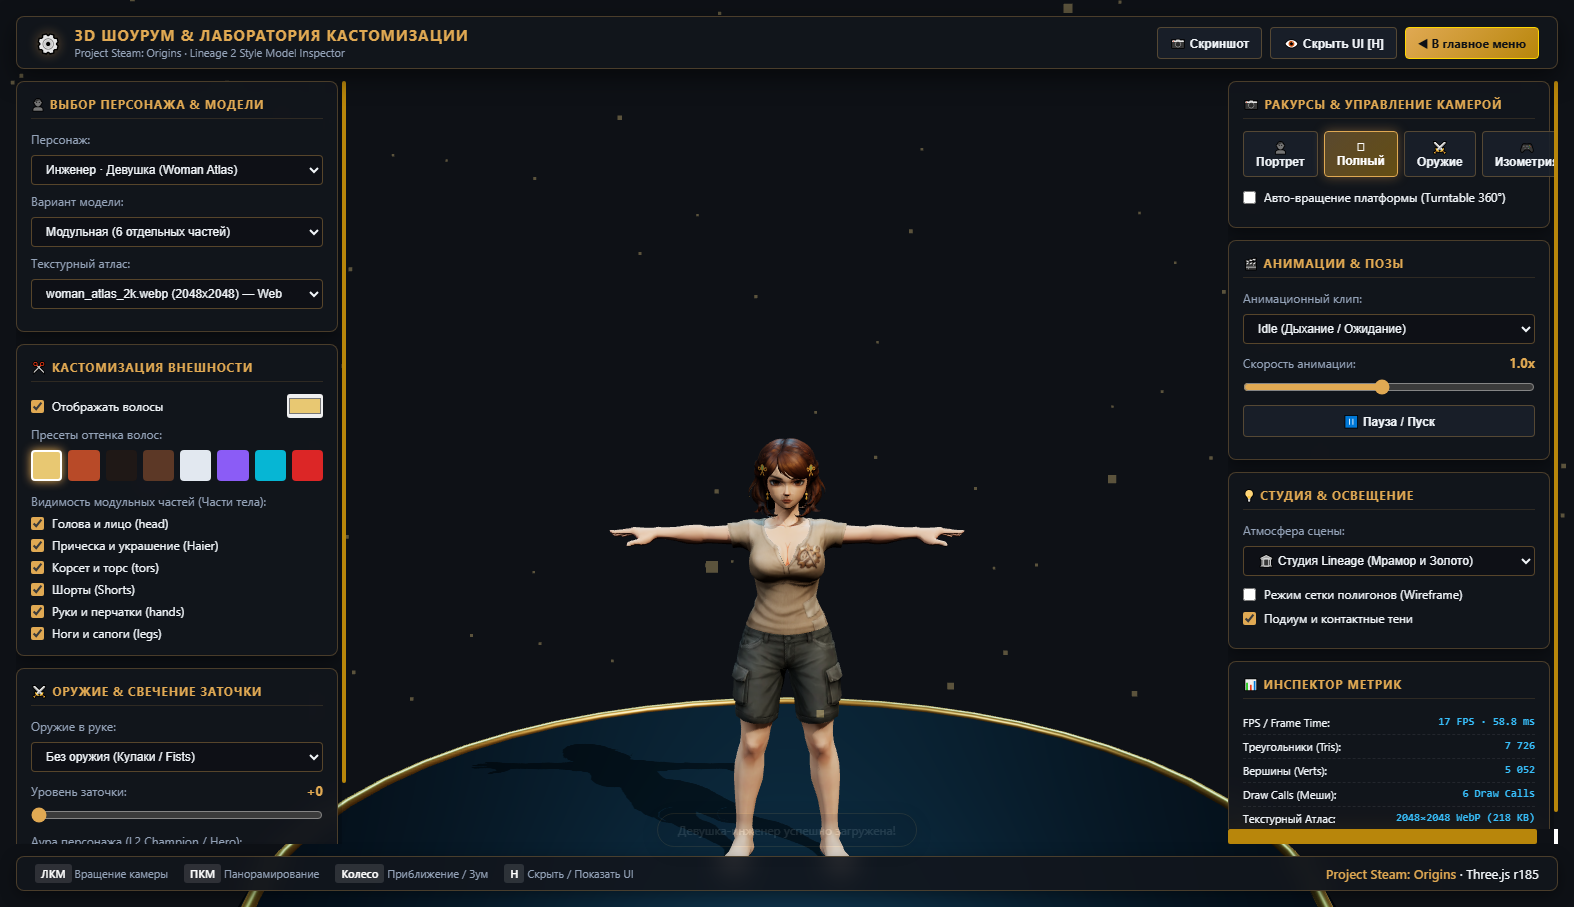
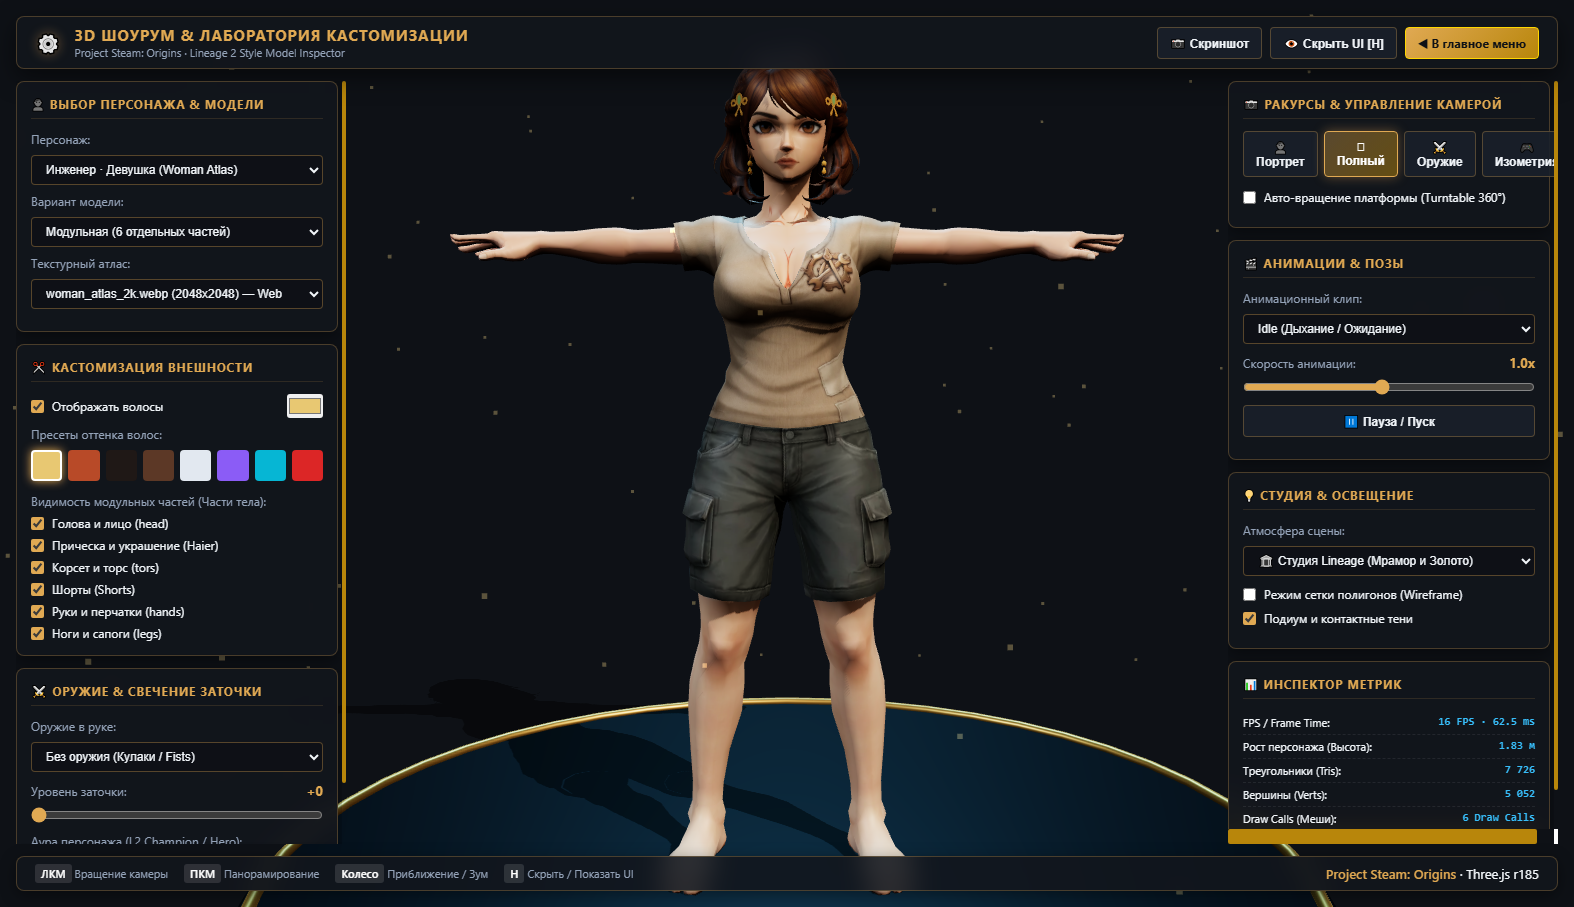
fix: rebuild woman model with atlas materials and scale > man

Changed region(s): [[0.2802, 0.0617, 0.716, 0.9879], [0.7783, 0.8026, 0.8717, 0.9261], [0.9028, 0.8644, 0.9962, 0.9261]]

diff --git a/client/js/showroom.js b/client/js/showroom.js
@@ -326,7 +326,7 @@ async function loadCharacter() {
           const hairMesh = hairGltf.scene;
           hairMesh.name = 'man_hair';
           activeCharacterModel.add(hairMesh);
-        } catch (_) {}
+        } catch (_) { }
       }
 
       charRoot.add(activeCharacterModel);
@@ -404,7 +404,7 @@ async function loadWeapon() {
           });
         }
       });
-    } catch (_) {}
+    } catch (_) { }
 
     // Position weapon in right hand socket
     // Position roughly at hand height (y ≈ 0.95, x ≈ 0.35, z ≈ 0.1)
@@ -552,16 +552,16 @@ function frameCamera(preset) {
   document.querySelectorAll('.preset-grid .btn').forEach(b => b.classList.remove('active'));
 
   if (preset === 'portrait') {
-    controls.setCameraTarget(new THREE.Vector3(0, 1.45, 0), 1.1, Math.PI / 2.05, 0);
+    controls.setCameraTarget(new THREE.Vector3(0, 1.55, 0), 1.15, Math.PI / 2.05, 0);
     document.getElementById('cam-portrait').classList.add('active');
   } else if (preset === 'full') {
-    controls.setCameraTarget(new THREE.Vector3(0, 0.95, 0), 2.8, Math.PI / 2.15, 0);
+    controls.setCameraTarget(new THREE.Vector3(0, 0.95, 0), 2.9, Math.PI / 2.15, 0);
     document.getElementById('cam-full').classList.add('active');
   } else if (preset === 'weapon') {
-    controls.setCameraTarget(new THREE.Vector3(0.35, 0.95, 0.1), 1.2, Math.PI / 2.1, 0.5);
+    controls.setCameraTarget(new THREE.Vector3(0.35, 1.05, 0.1), 1.25, Math.PI / 2.1, 0.5);
     document.getElementById('cam-weapon').classList.add('active');
   } else if (preset === 'mmo') {
-    controls.setCameraTarget(new THREE.Vector3(0, 0.9, 0), 3.2, Math.PI / 3.2, 0.75);
+    controls.setCameraTarget(new THREE.Vector3(0, 0.95, 0), 3.4, Math.PI / 3.2, 0.75);
     document.getElementById('cam-mmo').classList.add('active');
   }
 }
@@ -582,6 +582,11 @@ function updateMetrics() {
         if (g.attributes.position) verts += g.attributes.position.count;
       }
     });
+
+    const box = new THREE.Box3().setFromObject(activeCharacterModel);
+    const h = box.max.y - box.min.y;
+    const elHeight = document.getElementById('m-height');
+    if (elHeight) elHeight.textContent = `${h.toFixed(2)} м`;
   }
 
   document.getElementById('m-tris').textContent = Math.round(tris).toLocaleString();

diff --git a/client/showroom.html b/client/showroom.html
@@ -245,6 +245,10 @@
             <span class="metric-val" id="m-fps">60 FPS · 16.6 ms</span>
           </div>
           <div class="metric-row">
+            <span>Рост персонажа (Высота):</span>
+            <span class="metric-val" id="m-height">1.83 м</span>
+          </div>
+          <div class="metric-row">
             <span>Треугольники (Tris):</span>
             <span class="metric-val" id="m-tris">4 329</span>
           </div>
@@ -288,3 +292,4 @@
   <script type="module" src="js/showroom.js?v=sr-1"></script>
 </body>
 </html>
+

diff --git a/client/js/libs/addons/controls/OrbitControls.js b/client/js/libs/addons/controls/OrbitControls.js
@@ -184,3 +184,4 @@ export class OrbitControls {
     this.domElement.removeEventListener('contextmenu', this._onContextMenu);
   }
 }
+

diff --git a/client/css/showroom.css b/client/css/showroom.css
@@ -417,3 +417,4 @@ input[type="range"] {
     width: 100%;
   }
 }
+
